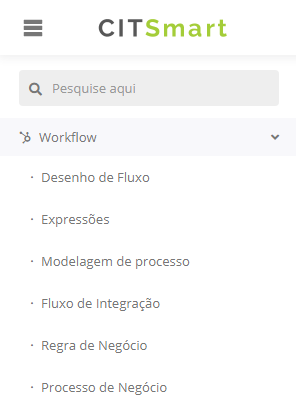
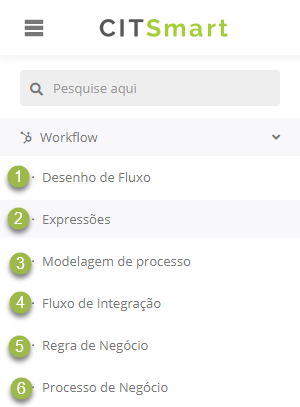
Update

diff --git a/pt-br/docs/citsmart-platform-8/workflow/basic-concepts.md b/pt-br/docs/citsmart-platform-8/workflow/basic-concepts.md
@@ -1,27 +1,28 @@
-Title: conceitos basicos
-Description: Workflow do CITSmart
+Title: Conceitos Básicos.
+Description: Conceitos Básicos para melhor uso e construção do fluxo de trabalho.  
 
 # Conceitos Básicos
 Os Fluxos do CITSmart podem ser desenhados utilizando uma vasta quantidade de elementos que estão disponíveis, abaixo está descrito os elementos bem como as suas características e propriedades.
 
 ## Elementos do Fluxo
-Elementos é a nomenclatura utilizada para a agrupar os componentes que você pode utilizar na criação de um fluxo, eles são distribuídos de seguinte forma: **Eventos**, **Atividades**, **Extensões**, **Gateways**, **Swimlanes**, **Artefatos** e **Componentes Dinâmicos**.
+Elementos é a nomenclatura utilizada para a agrupar os componentes que você pode utilizar na criação de um fluxo, eles são distribuídos da seguinte forma: **Eventos**, **Atividades**, **Extensões**, **Gateways**, **Swimlanes**, **Artefatos** e **Componentes Dinâmicos**.
 
 Para entender melhor o que se encontra em cada grupo de Elementos e cada funcionalidade dos componentes verifique os itens abaixo.
 
 ### Eventos
+
 Eventos são componentes utilizados para representar acontecimentos em um fluxo, podem representar a espera de que um fato aconteça para iniciar ou prosseguir a execução de uma atividade ou pode representar o início ou o término de um fluxo.
 
 |Icone|Descrição|
-------|-----|
+|------|-----|
 |![ Start event CITSmart][1]|•	**Evento de Início** – elemento que dá início ao fluxo;|
 |![ send event CITSmart][2]|•	**Evento Intermediário de Envio** – permite enviar o controle de uma atividade do usuário para outra atividade;|
 |![ catch event CITSmart][3]|•	**Evento Intermediário de Captura** – permite receber o controle que foi enviado;|
 |![ time event CITSmart][4]|•	**Evento Intermediário do Temporizador** - são eventos acionados por tempo definido e relacionados a uma Expressão Cron, pode ser utilizado como evento inicial ou intermediário. Um uso frequente para este evento está nos serviços Batch;|
 |![ end event CITSmart][5]|•	**Evento de Fim** – elemento que identifica o fim do fluxo.|
 
-
 ### Atividades
+
 Os componentes de atividades são representação do que será feito no fluxo.
 
 |Icone|Descrição|
@@ -32,6 +33,7 @@ Os componentes de atividades são representação do que será feito no fluxo.
 |![ subprocess CITSmart][9]|•	**Subprocessos** - Permite a criação de solicitações ou incidentes ITSM, relacionados ou não à solicitação do workflow que está sendo executado.|
 
 ### Extensões
+
 Os componentes de extensão integram o fluxo e com o usuário de forma prática e direta.
 
 |Icone|Descrição|
@@ -40,6 +42,7 @@ Os componentes de extensão integram o fluxo e com o usuário de forma prática 
 |![ notification CITSmart][11]|•	**Notificação** - usada para enviar notificação durante o processo de um ou mais usuários ou grupo atribuídos a ela.|
 
 ### Gateways
+
 Os Gateways são componentes responsáveis por controlar iterações do fluxo, criando caminhos no mapeamento do processo em uma mesma sequência de atividades, um gateway é conectado ao fluxo através de fluxo de sequência.
 São representados visualmente por um losango. O símbolo interno do losango identifica a interpretação da lógica do componente.
 
@@ -50,6 +53,7 @@ São representados visualmente por um losango. O símbolo interno do losango ide
 |![ exclusivos CITSmart][14]|•	**Gateway Exclusivo** - baseado na condição, divide o fluxo em um ou mais caminhos mutuamente exclusivos. Ao dividir, ele roteia o fluxo de sequência para exatamente um dos ramos de saída. Ao mesclar, ele aguarda que uma ramificação de entrada seja concluída antes de acionar o fluxo de saída.|
 
 ### Swimlanes
+
 |Icone|Descrição|
 |------|-----|
 |![Pool CITSmart][15]|•	**Pool/Participante** - Uma Pool é a representação gráfica de um contexto de workflow. Também age como uma “lane”. É um recipiente gráfico para particionar um conjunto de Atividades.|
@@ -63,6 +67,22 @@ São representados visualmente por um losango. O símbolo interno do losango ide
 
 ### Componentes dinâmicos
 
+Componentes Dinâmicos são elementos criados pelo usuário que permite realizar uma atividade diferente das padrões do sistema.
+
+Para utiliza-lo é preciso criar um **Componente Dinâmico** e configura-lo para ser utilizado da maneira desejada, para isso acesse nossa documentação – [Componentes Dinâmicos]()
+
+### Fluxo de integração
+
+O fluxo de integração é um fluxo paralelo ao fluxo de trabalho padrão do sistema que utiliza elementos diferentes como criar uma conexão com banco de dados e funcionalidades diretamente programadas dentro fluxo, entre outros elementos diferentes dos que foram mencionadas a cima.
+
+A aba de **Fluxo de Integração** dentro do fluxo padrão tem como funcionalidade apenas criar um vinculo de um fluxo para o outro, para saber mais a respeito do fluxo de integração acesse nossa documentação – [Fluxo de Integração]()
+
+## E agora, o que devo fazer?
+
+Agora você pode criar um fluxo de trabalho, pense em uma necessidade de negócio e nos atores envolvidos. Vejo nossa documentação, ela vai te ajudar nessa jornada.
+
+## Relacionado
+[Controlar sequência com Gateway](https://docs.citsmart.com/pt-br/citsmart-platform-8/workflow/use/control-with-gateway.html)
 
 [1]:images/1.png
 [2]:images/2.png

diff --git a/pt-br/docs/citsmart-platform-8/workflow/overview.md b/pt-br/docs/citsmart-platform-8/workflow/overview.md
@@ -17,6 +17,25 @@ Para saber se seu perfil tem essa permissão, acesso o menu lateral superior à 
 
 ![workflow menu CITSmart][1]
 
+**Padrão do sistema**
+
+1: Criar um Fluxo de Trabalho;
+
+2: Construir Expressões;
+
+3: Modelagem de processos;
+
+**Integração Neuro**
+
+4: Fluxo de Integração;
+
+5: Regras de negócio;
+
+6: Processo de Negócio;
+
+!!! note "NOTAS"
+   Estes itens só estarão disponíveis quando a aplicação Neuro estiver habilitada em sua instância;
+
 Caso já tenha esse acesso, basta clicar e seleciona a opção de **Desenho de fluxo** para que seja possível visualizar a tela de gerenciamento.
 
 ## Tela de Gerenciamento de Fluxo
@@ -73,11 +92,11 @@ Na aba **diagrama** encontramos diversos Elementos para a construção do fluxo 
 
 ![diagram CITSmart][6]
 
-**1: Elementos** – São conjuntos de itens/ferramentas para serem usadas no desenho do fluxo como explicado nos no item Conceitos Básicos;
+1: **Elementos** – São conjuntos de itens/ferramentas para serem usadas no desenho do fluxo como explicado nos no item Conceitos Básicos;
 
-**2: Área de Desenho** – local para desenho e construção do fluxo de trabalho;
+2: **Área de Desenho** – local para desenho e construção do fluxo de trabalho;
 
-#### Aba Documentação
+### Aba Documentação
 
 Na aba Documentação você poderá gerar um documento com todas as informações do fluxo desenhado - a descrição dos elementos utilizados no fluxo de trabalho e os documentos vinculados ao fluxo - sendo possível exportá-lo para PDF.  
 
@@ -86,7 +105,7 @@ Na aba Documentação você poderá gerar um documento com todas as informaçõe
 Agora você pode criar um fluxo de trabalho, pense em uma necessidade de negócio e nos atores envolvidos. Vejo nossa documentação, ela vai te ajudar nessa jornada.
 
 ## Relacionado
-[Conceitos básicos](https://docs.citsmart.com/pt-br/citsmart-platform-8/workflow/use/basic-concepts.html)
+[Conceitos básicos](https://docs.citsmart.com/pt-br/citsmart-platform-8/workflow/basic-concepts.html)
 
 [1]:images/workflow-menu-citsmart.png
 [2]:images/workflow-management-citsmart.png
